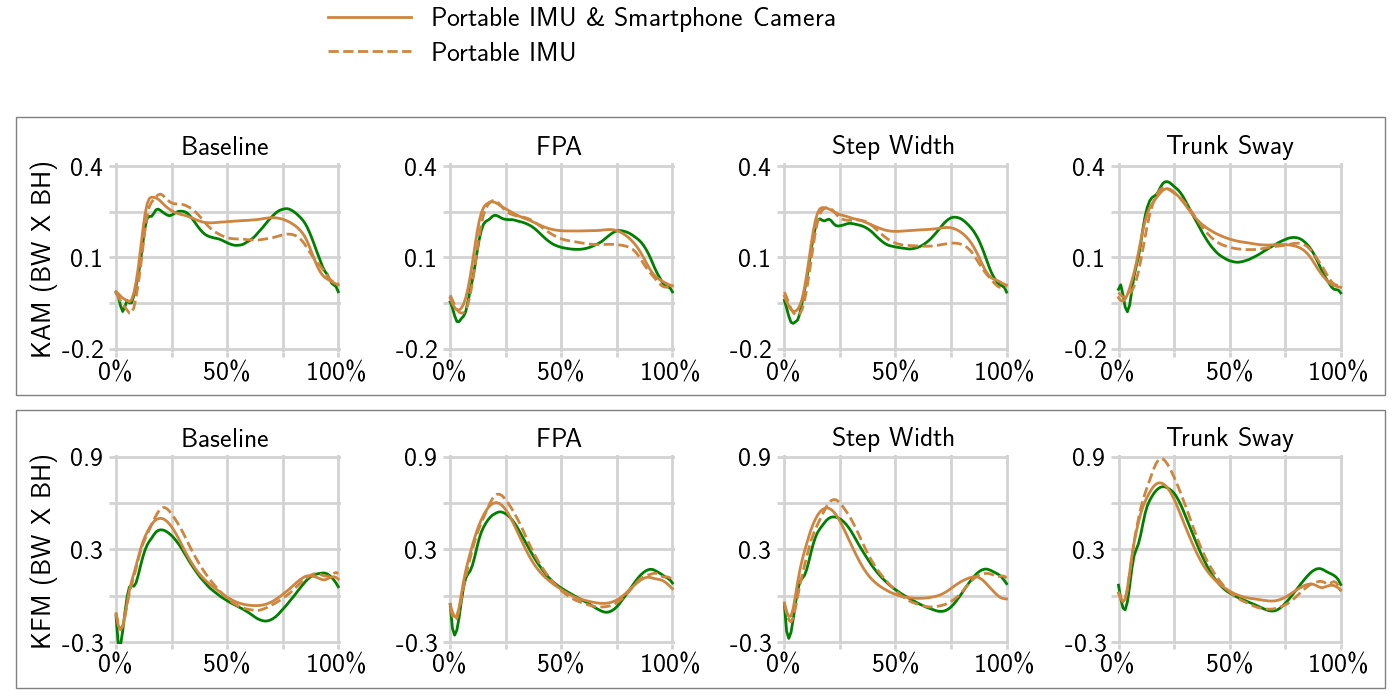
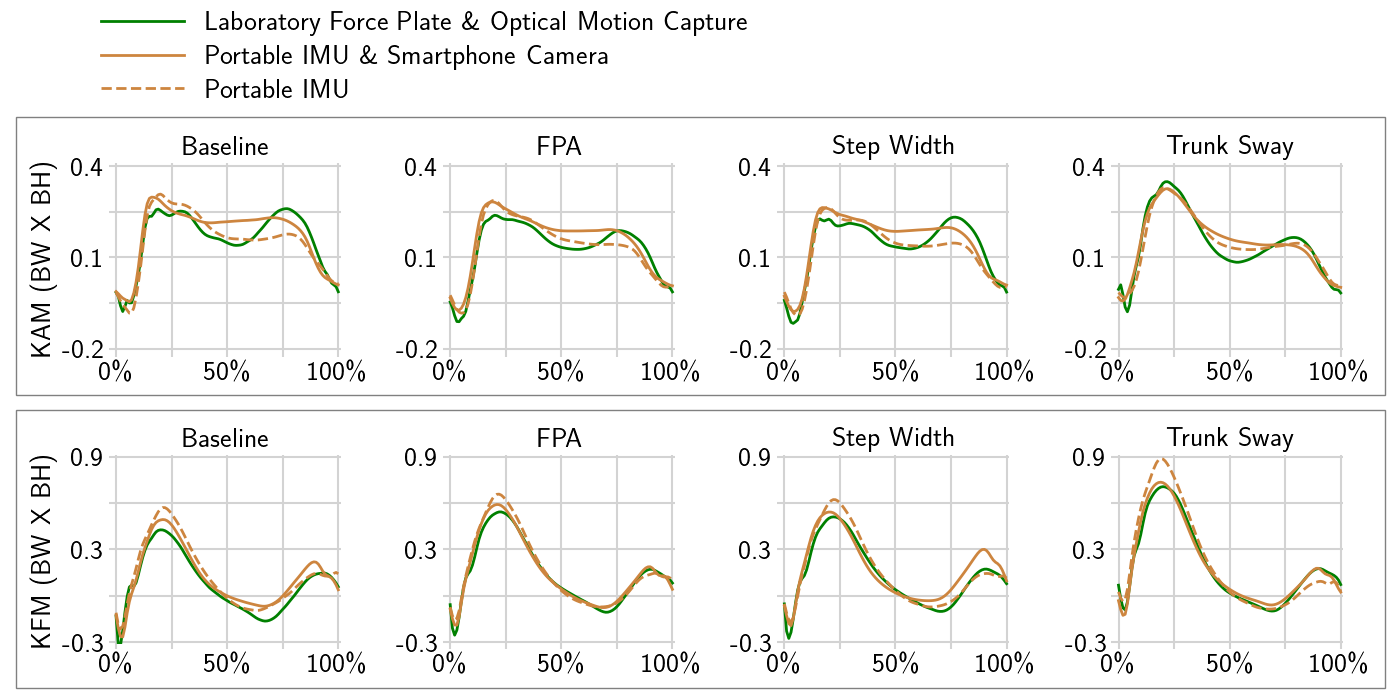
fixed KFM fz 90 bug

diff --git a/tian_model.py b/tian_model.py
@@ -348,6 +348,7 @@ class TianModel(BaseModel):
 
         four_source_model = FourSourceModel(model_fx, model_fz, model_rx, model_rz, self._data_scalar)
         params = {**sub_model_base_param, **{'target_name': 'main_output', 'fields': ['EXT_KM_Y']}}
+        # self.build_main_model(four_source_model, x_train, y_train, x_validation, y_validation, validation_weight, params)
         params['lr'] = params['lr'] * 0.1
         params['batch_size'] = 200
         self.build_main_model(four_source_model, x_train, y_train, x_validation, y_validation, validation_weight,
@@ -661,7 +662,7 @@ def run_kam(use_imu, use_op):
 def run_kfm(use_imu, use_op):
     """ z -> y, x -> z"""
     input_imu = {'force_y': ACC_AP, 'force_z': ACC_VERTICAL, 'r_y': R_FOOT_SHANK_GYR, 'r_z': R_FOOT_SHANK_GYR}
-    input_vid = {'force_y': VID_90_FIELDS, 'force_z': VID_90_FIELDS, 'r_y': VID_90_FIELDS, 'r_z': ['RKnee_y_90']}
+    input_vid = {'force_y': VID_90_FIELDS, 'force_z': VID_180_FIELDS, 'r_y': VID_90_FIELDS, 'r_z': ['RKnee_y_90']}
 
     x_fields = {'force_y': [], 'force_z': [], 'r_y': [], 'r_z': []}
     if use_imu:

diff --git a/figures/f4.py b/figures/f4.py
@@ -62,7 +62,7 @@ def organize_fig():
     ax = plt.gca()
     ax.add_patch(patches.Rectangle((-496, -0.6), 616, 1.8, fill=False, clip_on=False, ec='gray'))
     ax.add_patch(patches.Rectangle((-496, 1.3), 616, 1.8, fill=False, clip_on=False, ec='gray'))
-    plt.legend(handlelength=3, bbox_to_anchor=(-0.5, 3.7), ncol=1, fontsize=FONT_SIZE,
+    plt.legend(handlelength=3, bbox_to_anchor=(-1.5, 3.5), ncol=1, fontsize=FONT_SIZE,
                frameon=False, labelspacing=0.2)
 
 

diff --git a/figures/PaperFigures.py b/figures/PaperFigures.py
@@ -23,8 +23,8 @@ def hide_axis_add_grid():
     ax.spines['right'].set_visible(False)
     ax.spines['left'].set_visible(False)
     ax.spines['bottom'].set_visible(False)
-    ax.grid(color='lightgray', linewidth=2)
-    ax.tick_params(color='lightgray', width=2)
+    ax.grid(color='lightgray', linewidth=1.5)
+    ax.tick_params(color='lightgray', width=1.5)
 
 
 def get_mean_std(data_array, data_fields, col_name):
